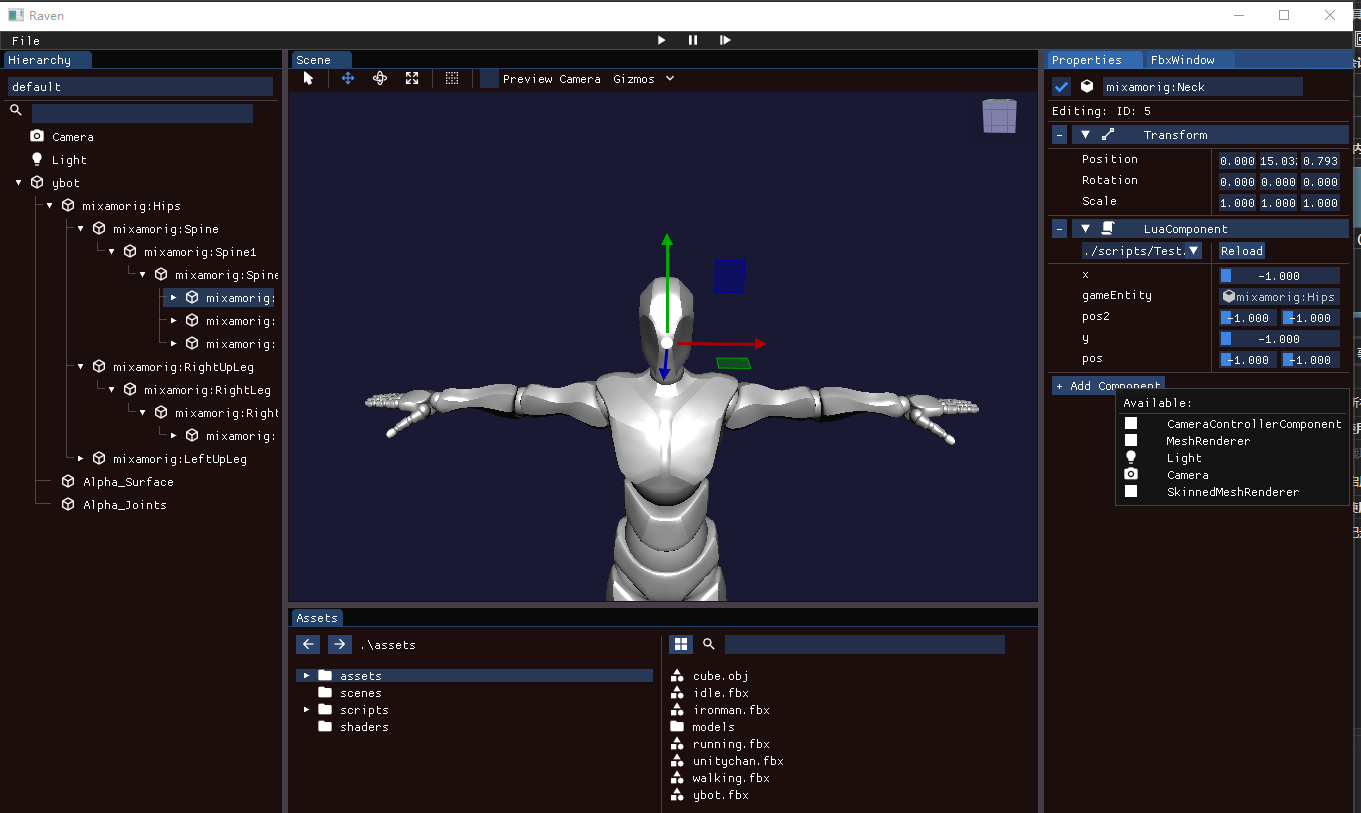
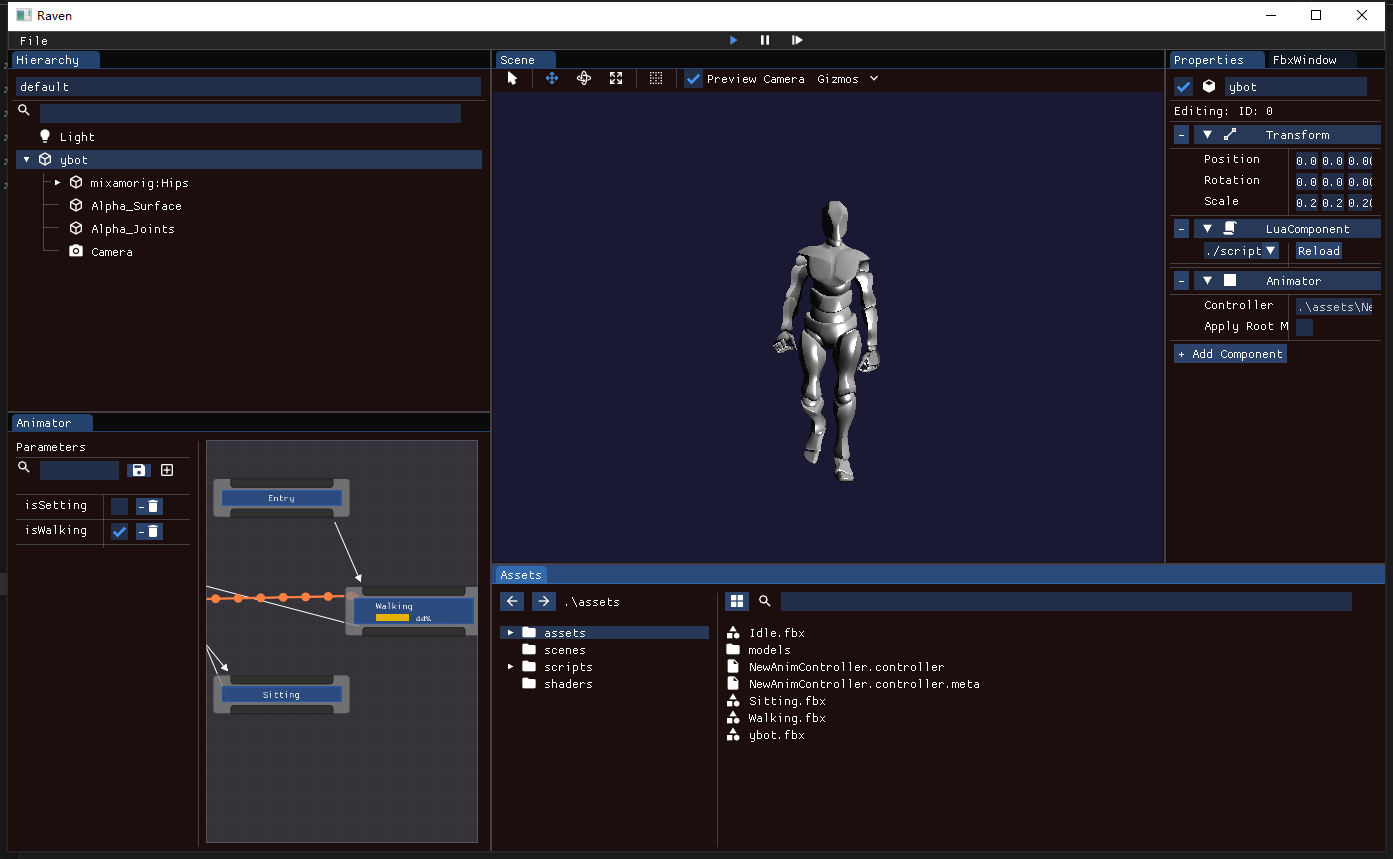
update raven

diff --git a/source/_posts/RavenEngine.md b/source/_posts/RavenEngine.md
@@ -19,7 +19,7 @@ Raven Engine is High Performance Graphics group project which is primarily an ea
 
 1. Viewer and Editor Applications
 2. Scripted interaction and behavior (Lua)
-3. SkinnedMesh 
+3. SkinnedMesh and Animation
 4. Render based on OpenGL
 5. Event System
 6. I/O
